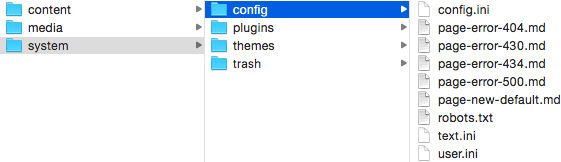
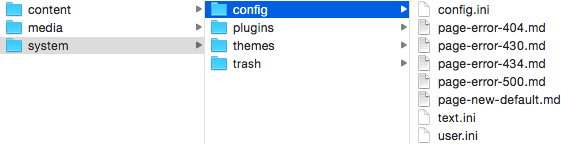
Developer kit update

diff --git a/system/plugins/command.php b/system/plugins/command.php
@@ -1,10 +1,10 @@
 <?php
 // Command plugin, https://github.com/datenstrom/yellow-plugins/tree/master/command
-// Copyright (c) 2013-2018 Datenstrom, https://datenstrom.se
+// Copyright (c) 2013-2019 Datenstrom, https://datenstrom.se
 // This file may be used and distributed under the terms of the public license.
 
 class YellowCommand {
-    const VERSION = "0.7.11";
+    const VERSION = "0.7.12";
     public $yellow;                     //access to API
     public $files;                      //number of files
     public $links;                      //number of links
@@ -105,6 +105,9 @@ class YellowCommand {
                 $statusCode = max($statusCode, $this->buildStaticFile($path, $location));
             }
             foreach ($this->getSystemLocations() as $location) {
+                $statusCode = max($statusCode, $this->buildStaticFile($path, $location));
+            }
+            foreach ($this->getExtraLocations() as $location) {
                 $statusCode = max($statusCode, $this->buildStaticFile($path, $location));
             }
             $statusCode = max($statusCode, $this->buildStaticFile($path, "/error/", false, false, true));
@@ -532,7 +535,23 @@ class YellowCommand {
         foreach ($fileNames as $fileName) {
             array_push($locations, $this->yellow->config->get("themeLocation").substru($fileName, $themeDirLength));
         }
-        array_push($locations, "/".$this->yellow->config->get("robotsFile"));
+        return $locations;
+    }
+
+    // Return extra locations
+    public function getExtraLocations() {
+        $locations = array();
+        $pathIgnore = "(".$this->yellow->config->get("staticDir")."|".
+            $this->yellow->config->get("cacheDir")."|".
+            $this->yellow->config->get("contentDir")."|".
+            $this->yellow->config->get("mediaDir")."|".
+            $this->yellow->config->get("systemDir").")";
+        $fileNames = $this->yellow->toolbox->getDirectoryEntriesRecursive(".", "/.*/", false, false);
+        foreach ($fileNames as $fileName) {
+            $fileName = substru($fileName, 2);
+            if (preg_match("#^$pathIgnore#", $fileName) || $fileName=="yellow.php") continue;
+            array_push($locations, "/".$fileName);
+        }
         return $locations;
     }
     

diff --git a/system/plugins/update.php b/system/plugins/update.php
@@ -1,10 +1,10 @@
 <?php
 // Update plugin, https://github.com/datenstrom/yellow-plugins/tree/master/update
-// Copyright (c) 2013-2018 Datenstrom, https://datenstrom.se
+// Copyright (c) 2013-2019 Datenstrom, https://datenstrom.se
 // This file may be used and distributed under the terms of the public license.
 
 class YellowUpdate {
-    const VERSION = "0.7.23";
+    const VERSION = "0.7.24";
     const PRIORITY = "2";
     public $yellow;                 //access to API
     public $updates;                //number of updates
@@ -30,6 +30,18 @@ class YellowUpdate {
                 $this->yellow->config->save($fileNameConfig, array("staticDir" => "public/"));
             }
         }
+        if (true) {  //TODO: remove later, converts old robots file
+            $fileNameRobots = $this->yellow->config->get("configDir")."robots.txt";
+            $fileNameError = $this->yellow->config->get("configDir")."system-error.log";
+            if (is_file($fileNameRobots)) {
+                if (!$this->yellow->toolbox->renameFile($fileNameRobots, "./robots.txt")) {
+                    $fileDataError .= "ERROR renaming file '$fileNameRobots'!\n";
+                }
+                if (!empty($fileDataError)) {
+                    $this->yellow->toolbox->createFile($fileNameError, $fileDataError);
+                }
+            }
+        }
         if ($update) {  //TODO: remove later, converts old Markdown extension
             $fileNameConfig = $this->yellow->config->get("configDir").$this->yellow->config->get("configFile");
             $fileNameError = $this->yellow->config->get("configDir")."system-error.log";
@@ -45,7 +57,6 @@ class YellowUpdate {
                 }
                 $path = $this->yellow->config->get("configDir");
                 foreach ($this->yellow->toolbox->getDirectoryEntries($path, "/^.*\.txt$/", true, false) as $entry) {
-                    if (basename($entry) == $this->yellow->config->get("robotsFile")) continue;
                     if (!$this->yellow->toolbox->renameFile($entry, str_replace(".txt", ".md", $entry))) {
                         $fileDataError .= "ERROR renaming file '$entry!'\n";
                     }

diff --git a/system/plugins/core.php b/system/plugins/core.php
@@ -1,6 +1,6 @@
 <?php
 // Core plugin, https://github.com/datenstrom/yellow-plugins/tree/master/core
-// Copyright (c) 2013-2018 Datenstrom, https://datenstrom.se
+// Copyright (c) 2013-2019 Datenstrom, https://datenstrom.se
 // This file may be used and distributed under the terms of the public license.
 
 class YellowCore {
@@ -66,8 +66,6 @@ class YellowCore {
         $this->config->setDefault("errorFile", "page-error-(.*).md");
         $this->config->setDefault("newFile", "page-new-(.*).md");
         $this->config->setDefault("languageFile", "language-(.*).txt");
-        $this->config->setDefault("robotsFile", "robots.txt");
-        $this->config->setDefault("faviconFile", "favicon.ico");
         $this->config->setDefault("serverUrl", "");
         $this->config->setDefault("startupUpdate", "none");
         $this->config->setDefault("template", "default");
@@ -2117,10 +2115,6 @@ class YellowLookup {
                 $fileName = $this->yellow->config->get("pluginDir").substru($location, $pluginLocationLength);
             } elseif (substru($location, 0, $themeLocationLength)==$this->yellow->config->get("themeLocation")) {
                 $fileName = $this->yellow->config->get("themeDir").substru($location, $themeLocationLength);
-            } elseif ($location=="/".$this->yellow->config->get("robotsFile")) {
-                $fileName = $this->yellow->config->get("configDir").$this->yellow->config->get("robotsFile");
-            } elseif ($location=="/".$this->yellow->config->get("faviconFile")) {
-                $fileName = $this->yellow->config->get("assetDir").$this->yellow->config->get("siteicon").".png";
             }
         }
         return $fileName;

diff --git a/content/2-de/4-help/api.md b/content/2-de/4-help/api.md
@@ -674,7 +674,7 @@ Hier ist ein Beispiel-Snippet um Textzeilen von Datei zu lesen:
 
 ``` html
 <div class="toolbox">
-<?php $fileName = $yellow->config->get("configDir").$yellow->config->get("robotsFile") ?>
+<?php $fileName = $yellow->config->get("configDir").$yellow->config->get("configFile") ?>
 <?php $fileData = $this->yellow->toolbox->readFile($fileName) ?>
 <?php foreach($this->yellow->toolbox->getTextLines($fileData) as $line): ?>
 <?php echo htmlspecialchars($line) ?><br />

diff --git a/content/1-en/4-help/api.md b/content/1-en/4-help/api.md
@@ -673,7 +673,7 @@ Here's an example snippet for reading text lines from file:
 
 ``` html
 <div class="toolbox">
-<?php $fileName = $yellow->config->get("configDir").$yellow->config->get("robotsFile") ?>
+<?php $fileName = $yellow->config->get("configDir").$yellow->config->get("configFile") ?>
 <?php $fileData = $this->yellow->toolbox->readFile($fileName) ?>
 <?php foreach($this->yellow->toolbox->getTextLines($fileData) as $line): ?>
 <?php echo htmlspecialchars($line) ?><br />

diff --git a/content/3-fr/4-help/api.md b/content/3-fr/4-help/api.md
@@ -676,7 +676,7 @@ Here's an example snippet for reading text lines from file:
 
 ``` html
 <div class="toolbox">
-<?php $fileName = $yellow->config->get("configDir").$yellow->config->get("robotsFile") ?>
+<?php $fileName = $yellow->config->get("configDir").$yellow->config->get("configFile") ?>
 <?php $fileData = $this->yellow->toolbox->readFile($fileName) ?>
 <?php foreach($this->yellow->toolbox->getTextLines($fileData) as $line): ?>
 <?php echo htmlspecialchars($line) ?><br />
